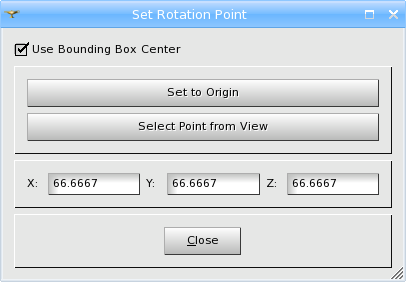
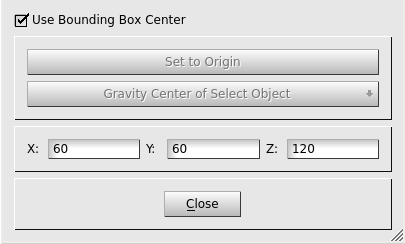
0022378: EDF 2273 GEOM: Select a point/edge/face/solid in the "Set Rotation Point" window

diff --git a/src/SVTK/resources/SVTK_msg_fr.ts b/src/SVTK/resources/SVTK_msg_fr.ts
@@ -449,7 +449,23 @@ Veuillez consulter la documentation.</translation>
     </message>
     <message>
         <source>LBL_SELECTPOINT</source>
-        <translation>Choisir un point dans la vue</translation>
+        <translation>Сentre de gravité des objets sélectionnés</translation>
+    </message>
+    <message>
+        <source>LBL_POINT</source>
+        <translation>Point</translation>
+    </message>
+    <message>
+        <source>LBL_EDGE</source>
+        <translation>Arête</translation>
+    </message>
+    <message>
+        <source>LBL_FACE</source>
+        <translation>Face</translation>
+    </message>
+    <message>
+        <source>LBL_VOLUME</source>
+        <translation>Volume</translation>
     </message>
     <message>
         <source>DLG_TITLE</source>

diff --git a/src/SVTK/resources/SVTK_msg_en.ts b/src/SVTK/resources/SVTK_msg_en.ts
@@ -449,7 +449,23 @@ Please, refer to the documentation.</translation>
     </message>
     <message>
         <source>LBL_SELECTPOINT</source>
-        <translation>Select Point from View</translation>
+        <translation>Gravity Center of Select Object</translation>
+    </message>
+    <message>
+        <source>LBL_POINT</source>
+        <translation>Point</translation>
+    </message>
+    <message>
+        <source>LBL_EDGE</source>
+        <translation>Edge</translation>
+    </message>
+    <message>
+        <source>LBL_FACE</source>
+        <translation>Face</translation>
+    </message>
+    <message>
+        <source>LBL_VOLUME</source>
+        <translation>Volume</translation>
     </message>
     <message>
         <source>DLG_TITLE</source>

diff --git a/src/OCCViewer/resources/OCCViewer_msg_fr.ts b/src/OCCViewer/resources/OCCViewer_msg_fr.ts
@@ -351,7 +351,23 @@
     </message>
     <message>
         <source>LBL_SELECTPOINT</source>
-        <translation>Choisir le point dans la vue</translation>
+        <translation>Сentre de gravité des objets sélectionnés</translation>
+    </message>
+    <message>
+        <source>LBL_POINT</source>
+        <translation>Point</translation>
+    </message>
+    <message>
+        <source>LBL_EDGE</source>
+        <translation>Arête</translation>
+    </message>
+    <message>
+        <source>LBL_FACE</source>
+        <translation>Face</translation>
+    </message>
+    <message>
+        <source>LBL_SOLID</source>
+        <translation>Solide</translation>
     </message>
 </context>
 <context>

diff --git a/src/OCCViewer/resources/OCCViewer_msg_en.ts b/src/OCCViewer/resources/OCCViewer_msg_en.ts
@@ -352,7 +352,23 @@
     </message>
     <message>
         <source>LBL_SELECTPOINT</source>
-        <translation>Select Point from View</translation>
+        <translation>Gravity Center of Select Object</translation>
+    </message>
+    <message>
+        <source>LBL_POINT</source>
+        <translation>Point</translation>
+    </message>
+    <message>
+        <source>LBL_EDGE</source>
+        <translation>Edge</translation>
+    </message>
+    <message>
+        <source>LBL_FACE</source>
+        <translation>Face</translation>
+    </message>
+    <message>
+        <source>LBL_SOLID</source>
+        <translation>Solid</translation>
     </message>
 </context>
 <context>

diff --git a/src/SVTK/SVTK_SetRotationPointDlg.h b/src/SVTK/SVTK_SetRotationPointDlg.h
@@ -28,10 +28,14 @@
 #define SVTK_SETROTATIONPOINTDLG_H
 
 #include "SVTK.h"
+#include "SVTK_Selection.h"
 
 #include <ViewerTools_DialogBase.h>
 
 #include <vtkSmartPointer.h>
+
+#include <QMap>
+#include <QList>
 
 class SVTK_ViewWindow;
 class SVTK_RenderWindowInteractor;
@@ -42,8 +46,10 @@ class QLineEdit;
 class QPushButton;
 class QGroupBox;
 class QCheckBox;
+class QAction;
 
 class vtkCallbackCommand;
+class vtkInteractorStyle;
 class vtkObject;
 
 class SVTK_EXPORT SVTK_SetRotationPointDlg : public ViewerTools_DialogBase
@@ -63,8 +69,10 @@ public:
 protected:
   SVTK_ViewWindow *myMainWindow;
   SVTK_RenderWindowInteractor* myRWInteractor;
-  bool myIsObserverAdded;
+  QList<vtkInteractorStyle*> myInteractorStyleList;
   
+  QMap<QAction*, Selection_Mode> mySelectActions;
+
   QCheckBox*    myIsBBCenter;
 
   QGroupBox   * myGroupBoxSel;
@@ -77,6 +85,7 @@ protected:
   QLineEdit* myZ;
 
   void setEnabled(QGroupBox* theGrp, const bool theState);
+  bool IsObserverAdded( vtkInteractorStyle* );
 
   //----------------------------------------------------------------------------
   // Priority at which events are processed
@@ -96,7 +105,7 @@ protected slots:
   void onBBCenterChecked();
   
   void onToOrigin();
-  void onSelectPoint();
+  void onSelectMenu( QAction* );
 
   void onCoordChanged();
 

diff --git a/src/OCCViewer/OCCViewer_SetRotationPointDlg.h b/src/OCCViewer/OCCViewer_SetRotationPointDlg.h
@@ -26,6 +26,9 @@
 #include "OCCViewer.h"
 
 #include <QDialog>
+#include <QMap>
+
+#include <TopAbs_ShapeEnum.hxx>
 
 class QtxAction;
 
@@ -33,6 +36,7 @@ class QLineEdit;
 class QPushButton;
 class QGroupBox;
 class QCheckBox;
+class QAction;
 
 class OCCViewer_ViewWindow;
 
@@ -54,6 +58,7 @@ public:
 protected:
   OCCViewer_ViewWindow* myView;
   QtxAction* myAction;
+  QMap<QAction*, TopAbs_ShapeEnum> mySelectActions;
 
   QCheckBox*    myIsBBCenter;
 
@@ -72,7 +77,7 @@ protected slots:
   void onBBCenterChecked();
   
   void onToOrigin();
-  void onSelectPoint();
+  void onSelectMenu( QAction* );
 
   void onCoordChanged();
 

diff --git a/src/OCCViewer/OCCViewer_ViewFrame.h b/src/OCCViewer/OCCViewer_ViewFrame.h
@@ -27,6 +27,7 @@
 #include "OCCViewer_ViewWindow.h"
 
 #include <gp_Pln.hxx>
+#include <TopAbs_ShapeEnum.hxx>
 
 class SUIT_Desktop;
 class OCCViewer_Viewer;
@@ -118,7 +119,7 @@ public slots:
 
   virtual void activateSetRotationGravity() {}
   virtual void activateSetRotationSelected( double theX, double theY, double theZ ) {}
-  virtual void activateStartPointSelection() {}
+  virtual void activateStartPointSelection( TopAbs_ShapeEnum ) {}
   virtual void updateGravityCoords() {}
    
   void onMaximizedView( OCCViewer_ViewWindow*, bool );

diff --git a/src/OCCViewer/OCCViewer_ViewWindow.h b/src/OCCViewer/OCCViewer_ViewWindow.h
@@ -28,6 +28,7 @@
 #include "SUIT_ViewWindow.h"
 #include <gp_Pnt.hxx>
 #include <V3d_Plane.hxx>
+#include <TopAbs_ShapeEnum.hxx>
 
 class QtxRectRubberBand;
 class SUIT_Desktop;
@@ -266,7 +267,7 @@ public slots:
 
   virtual void activateSetRotationGravity();
   virtual void activateSetRotationSelected( double theX, double theY, double theZ );
-  virtual void activateStartPointSelection();
+  virtual void activateStartPointSelection( TopAbs_ShapeEnum );
   virtual void updateGravityCoords();
    
   virtual void showEvent( QShowEvent * );

diff --git a/src/SVTK/SALOME_Actor.h b/src/SVTK/SALOME_Actor.h
@@ -258,6 +258,10 @@ class SVTK_EXPORT SALOME_Actor : public VTKViewer_Actor
   SetCellAreaPicker(SVTK_AreaPicker* theAreaPicker);
 
   //----------------------------------------------------------------------------
+  //! To find a gravity center of object
+  double* GetGravityCenter( int );
+
+  //----------------------------------------------------------------------------
   //! To set up a prehighlight property (initialized by #SVTK_Renderer::AddActor)
   void
   SetPreHighlightProperty(vtkProperty* theProperty);

diff --git a/src/SVTK/SVTK_ViewWindow.h b/src/SVTK/SVTK_ViewWindow.h
@@ -294,7 +294,7 @@ public slots:
 
   void activateSetRotationGravity();
   void activateSetRotationSelected(void* theData);
-  void activateStartPointSelection();
+  void activateStartPointSelection( Selection_Mode );
 
   void onUpdateRate(bool theIsActivate);
   void onNonIsometric(bool theIsActivate);
